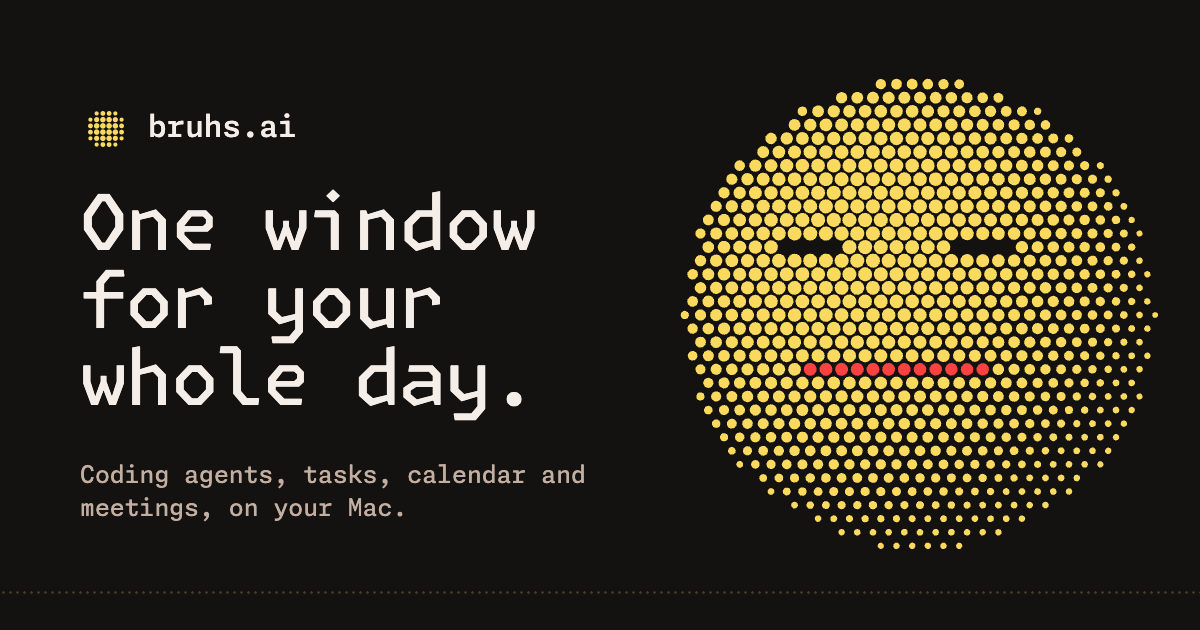
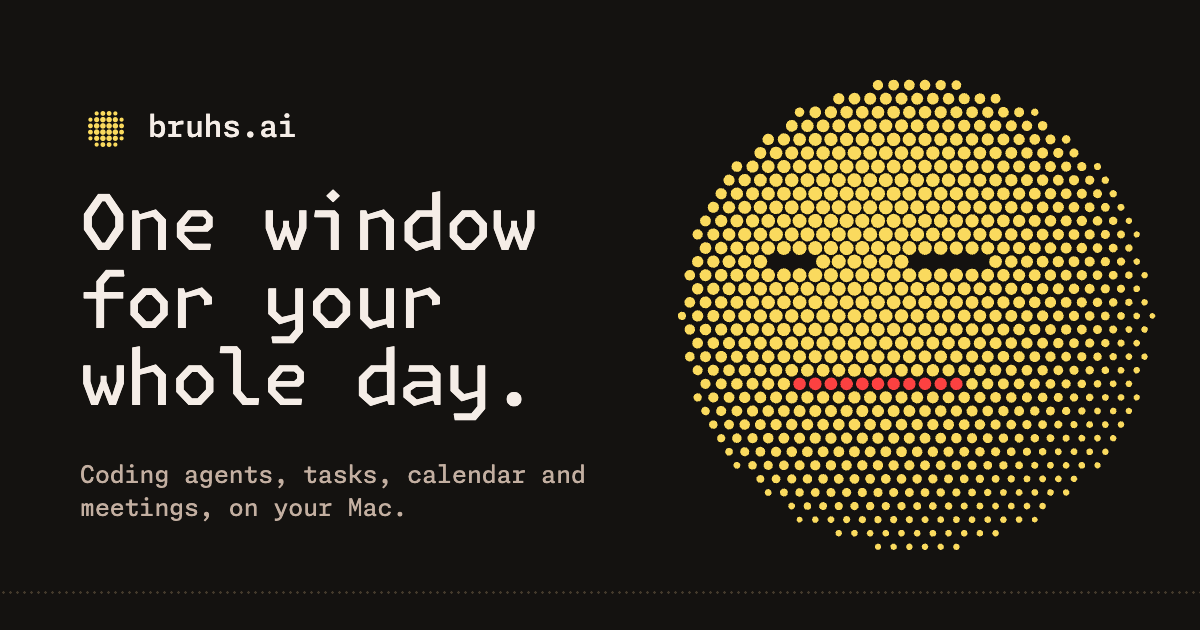
feat(site): the dot Bruh turns its whole head toward the pointer
Looking used to slide the eyes and mouth while the ball stayed put. The
head now rotates in 3D (yaw and pitch): every dot maps back onto the turned
head's surface, so the features ride the sphere, curving and foreshortening
toward the rim under a fixed light, and the ball leans a little toward the
pointer. The turn eases over about 150ms instead of snapping, and stays
still under reduced motion. The social card is redrawn with the new turn.

Assisted-by: Claude:claude-opus-5-5

Changed region(s): [[0.555, 0.1206, 0.9558, 0.8746]]

diff --git a/bruhs-site/src/scripts/braille.js b/bruhs-site/src/scripts/braille.js
@@ -1,10 +1,12 @@
 // The Bruh mascot as a halftone of dots: a hex grid over the face, each dot
 // sized by the light on a sphere (dot area tracks brightness) and shrunk a
 // little toward the rim, so the silhouette stays round and the face reads as
-// a lit ball. The eyes are one-row slits and the mouth is one row of red. Geometry
-// from bruhs.svg; `lookX` turns toward its `left` and `right` variants.
-// The same algorithm lives in @bruhs/theme/dither and bruhs-models
-// logic/dither.rs. No DOM here: tests run it in Node.
+// a lit ball. The eyes are one-row slits and the mouth is one row of red.
+// Looking turns the whole head in 3D: the features ride the sphere's surface,
+// curving and foreshortening toward the rim under a fixed light, and the ball
+// leans a little the way it looks. Geometry from bruhs.svg. The same algorithm
+// lives in @bruhs/theme/dither and bruhs-models logic/dither.rs (static there).
+// No DOM here: tests run it in Node.
 
 /** 4×4 Bayer matrix as thresholds in (0, 1); the screenshot dissolve's order. */
 const BAYER = [0, 8, 2, 10, 12, 4, 14, 6, 3, 11, 1, 9, 15, 7, 13, 5].map((n) => (n + 0.5) / 16);
@@ -34,18 +36,22 @@ const LIGHT = normalize([-0.35, -0.45, 0.82]);
 const AMBIENT = 0.25;
 const RIM = 0.35;
 
-// Mascot geometry in face radii (bruhs.svg: r = 300, center 300,300).
+// Mascot geometry in face radii (bruhs.svg: r = 300, center 300,300). The logo
+// has the eyes 102 and 101 units out; they're mirrored here so the symmetric
+// hex grid cuts identical slits.
 /** @param {number} x @param {number} y */
 const unit = (x, y) => ({ x: (x - 300) / 300, y: (y - 300) / 300 });
-const FACES = {
-  // Eyes mirrored about the center (the logo has them 102 and 101 units out):
-  // the hex grid is symmetric, so mirrored eyes cut identical slits.
-  original: { leftEye: unit(198.5, 223), rightEye: unit(401.5, 223), mouth: unit(307, 378) },
-  left: { leftEye: unit(97, 209), rightEye: unit(300, 209), mouth: unit(191, 364) },
-  right: { leftEye: unit(300, 209), rightEye: unit(503, 209), mouth: unit(409, 364) },
-};
+const LEFT_EYE = unit(198.5, 223);
+const RIGHT_EYE = unit(401.5, 223);
+const MOUTH_AT = unit(307, 378);
 const EYE_RX = 40 / 300;
 const MOUTH_RX = 120 / 300;
+
+// A full look (lookX or lookY of ±1) turns the head this far, in radians,
+// and shifts the ball this share of its radius.
+const MAX_YAW = 0.75;
+const MAX_PITCH = 0.45;
+const LEAN = 0.04;
 
 export const FACE = 1;
 export const MOUTH = 2;
@@ -55,8 +61,8 @@ export const MOUTH = 2;
  * @property {number} cx      Center, in canvas pixels.
  * @property {number} cy
  * @property {number} r       Radius, in canvas pixels.
- * @property {number} [lookX] -1 turns fully to the logo's `left` variant, 1 to `right`.
- * @property {number} [lookY] -1 (up) to 1 (down), a small nudge.
+ * @property {number} [lookX] -1 turns the head fully left, 1 fully right.
+ * @property {number} [lookY] -1 tilts it up, 1 down.
  */
 
 /**
@@ -93,28 +99,41 @@ export function shade(dx, dy) {
 
 /**
  * Every dot of a Bruh in a `width` × `height` box. The hex grid is anchored on
- * the face's center, so the face is symmetric wherever it sits.
+ * the ball's center, so a face looking straight ahead is exactly symmetric.
  * @param {number} width
  * @param {number} height
  * @param {Face} face
  * @returns {Dot[]}
  */
 export function bruhDots(width, height, face) {
-  const { cx, cy, r } = face;
+  const { r } = face;
+  const lookX = Math.max(-1, Math.min(1, face.lookX ?? 0));
+  const lookY = Math.max(-1, Math.min(1, face.lookY ?? 0));
+  const cx = face.cx + lookX * LEAN * r;
+  const cy = face.cy + lookY * LEAN * r;
   const pitch = pitchFor(r);
   const rowH = (pitch * Math.sqrt(3)) / 2;
-  const look = Math.max(-1, Math.min(1, face.lookX ?? 0));
-  const nudge = Math.max(-1, Math.min(1, face.lookY ?? 0)) * 0.05;
-  const turned = look < 0 ? FACES.left : FACES.right;
-  const t = Math.abs(look);
-  /** @param {{ x: number, y: number }} a @param {{ x: number, y: number }} b */
-  const toward = (a, b) => ({ x: a.x + (b.x - a.x) * t, y: a.y + (b.y - a.y) * t + nudge });
-  const eyes = [toward(FACES.original.leftEye, turned.leftEye), toward(FACES.original.rightEye, turned.rightEye)];
-  const mouth = toward(FACES.original.mouth, turned.mouth);
-  // Eyes and mouth are exactly one row each: the row nearest their line. An
-  // oval hole cut across staggered rows comes out ▽ on one eye and △ on the other.
-  const eyeRows = eyes.map((e) => Math.round((e.y * r) / rowH));
-  const mouthRow = Math.round((mouth.y * r) / rowH);
+  const head = rotation(lookX * MAX_YAW, lookY * MAX_PITCH);
+
+  // Where each feature lands once the head turns. Eyes and mouth are exactly
+  // one row each, the row nearest where they land: an oval hole cut across
+  // staggered rows comes out ▽ on one eye and △ on the other.
+  /** @param {{ x: number, y: number }} at */
+  const land = (at) => {
+    const seen = head.toScreen(lift(at));
+    return { at, row: Math.round((seen.y * r) / rowH), visible: seen.z > 0.15 };
+  };
+  const leftEye = land(LEFT_EYE);
+  const rightEye = land(RIGHT_EYE);
+  const mouth = land(MOUTH_AT);
+  /**
+   * @param {{ at: { x: number, y: number }, row: number, visible: boolean }} feature
+   * @param {number} row
+   * @param {{ x: number, y: number }} local
+   * @param {number} rx
+   */
+  const on = (feature, row, local, rx) =>
+    feature.visible && row === feature.row && Math.abs(local.x - feature.at.x) <= rx && Math.abs(local.y - feature.at.y) < 0.2;
 
   /** @type {Dot[]} */
   const dots = [];
@@ -125,16 +144,18 @@ export function bruhDots(width, height, face) {
     if (y < -pitch || y > height + pitch) continue;
     for (let col = -cols; col <= cols; col++) {
       // Offsets in whole half-steps, so a dot and its mirror twin get exactly
-      // negated positions and the face stays symmetric.
+      // negated positions and a front-facing face stays symmetric.
       const halfSteps = 2 * col + (row & 1);
       const x = cx + (halfSteps * pitch) / 2;
       if (x < -pitch || x > width + pitch) continue;
       const dx = (halfSteps * pitch) / (2 * r);
-      const dy = (y - cy) / r;
+      const dy = (row * rowH) / r;
       let value = shade(dx, dy);
       if (value === null) continue;
-      if (eyes.some((e, i) => row === eyeRows[i] && Math.abs((dx - e.x) / EYE_RX) <= 1)) continue;
-      const isMouth = row === mouthRow && Math.abs((dx - mouth.x) / MOUTH_RX) <= 1;
+      // The point of the head's own (unturned) surface now under this dot.
+      const local = head.toLocal(dx, dy, Math.sqrt(Math.max(0, 1 - dx * dx - dy * dy)));
+      if (on(leftEye, row, local, EYE_RX) || on(rightEye, row, local, EYE_RX)) continue;
+      const isMouth = on(mouth, row, local, MOUTH_RX);
       if (isMouth) value = Math.max(value, 0.75);
       const radius = (pitch / 2) * 0.92 * Math.sqrt(value);
       if (radius < pitch * 0.07) continue;
@@ -167,6 +188,41 @@ export function drawBruh(ctx, width, height, face, style) {
   ctx.fill(paths[FACE]);
   ctx.fillStyle = style.colors.mouth;
   ctx.fill(paths[MOUTH]);
+}
+
+/**
+ * A point of the front-facing face, in face radii, lifted onto the sphere.
+ * @param {{ x: number, y: number }} p
+ */
+function lift(p) {
+  return { x: p.x, y: p.y, z: Math.sqrt(Math.max(0, 1 - p.x * p.x - p.y * p.y)) };
+}
+
+/**
+ * The head's turn: a tilt (pitch, positive looks down) then a turn (yaw,
+ * positive looks right), on screen axes with y down and z toward the viewer.
+ * @param {number} yaw
+ * @param {number} pitch
+ */
+function rotation(yaw, pitch) {
+  const cosY = Math.cos(yaw);
+  const sinY = Math.sin(yaw);
+  const cosP = Math.cos(pitch);
+  const sinP = Math.sin(pitch);
+  return {
+    /** @param {{ x: number, y: number, z: number }} p */
+    toScreen(p) {
+      const y = p.y * cosP + p.z * sinP;
+      const z = -p.y * sinP + p.z * cosP;
+      return { x: p.x * cosY + z * sinY, y, z: -p.x * sinY + z * cosY };
+    },
+    /** @param {number} x @param {number} y @param {number} z */
+    toLocal(x, y, z) {
+      const lx = x * cosY - z * sinY;
+      const lz = x * sinY + z * cosY;
+      return { x: lx, y: y * cosP - lz * sinP, z: y * sinP + lz * cosP };
+    },
+  };
 }
 
 /** @param {[number, number, number]} v @returns {[number, number, number]} */

diff --git a/bruhs-site/src/scripts/site.js b/bruhs-site/src/scripts/site.js
@@ -411,11 +411,14 @@ document.addEventListener("keydown", (event) => {
 // ---------------------------------------------------------------------------
 // Dot Bruh: the mascot as a halftone sphere of dots. The hero one resolves
 // out of noise once; the closing one peeks up from the bottom edge. Both turn
-// toward the pointer. Redraws happen only on resize, pointer moves and the reveal.
+// their head toward the pointer, easing there over a few frames. Redraws happen
+// only on resize, the reveal and while a head is still turning.
 
 const BRUH_COLORS = { face: "#fada5e", mouth: "#fc4141" };
-// How far the face turns at the pointer's farthest reach (1 = the logo's side variant).
-const LOOK_REACH = 0.6;
+// How far the head turns at the pointer's farthest reach (1 = its full turn).
+const LOOK_REACH = 0.7;
+// Share of the remaining turn covered each frame: about 150ms to settle at 60fps.
+const LOOK_EASE = 0.22;
 const REVEAL_MS = 700;
 
 /**
@@ -426,6 +429,7 @@ const REVEAL_MS = 700;
  * @property {number} width
  * @property {number} height
  * @property {import("./braille.js").Face} face
+ * @property {{ x: number, y: number }} target  Where the pointer asks the head to look.
  * @property {number} reveal
  * @property {boolean} visible
  */
@@ -442,6 +446,7 @@ for (const canvas of document.querySelectorAll("canvas[data-bruh]")) {
     width: 0,
     height: 0,
     face: { cx: 0, cy: 0, r: 1, lookX: 0, lookY: 0 },
+    target: { x: 0, y: 0 },
     reveal: reducedMotion.matches ? 1 : 0,
     visible: false,
   });
@@ -467,15 +472,6 @@ function layoutBruh(bruh) {
 function drawOne(bruh) {
   if (bruh.width === 0) return;
   drawBruh(bruh.ctx, bruh.width, bruh.height, bruh.face, { reveal: bruh.reveal, colors: BRUH_COLORS });
-}
-
-let bruhFrame = 0;
-function scheduleBruhs() {
-  if (bruhFrame) return;
-  bruhFrame = requestAnimationFrame(() => {
-    bruhFrame = 0;
-    for (const bruh of bruhs) if (bruh.visible) drawOne(bruh);
-  });
 }
 
 /** @param {Bruh} bruh */
@@ -516,15 +512,33 @@ for (const bruh of bruhs) {
   bruhResized.observe(bruh.canvas);
 }
 
+let lookFrame = 0;
+function turnHeads() {
+  lookFrame = 0;
+  let turning = false;
+  for (const bruh of bruhs) {
+    if (!bruh.visible) continue;
+    const dx = bruh.target.x - (bruh.face.lookX ?? 0);
+    const dy = bruh.target.y - (bruh.face.lookY ?? 0);
+    if (Math.abs(dx) < 0.002 && Math.abs(dy) < 0.002) continue;
+    bruh.face.lookX = (bruh.face.lookX ?? 0) + dx * LOOK_EASE;
+    bruh.face.lookY = (bruh.face.lookY ?? 0) + dy * LOOK_EASE;
+    drawOne(bruh);
+    turning = true;
+  }
+  if (turning) lookFrame = requestAnimationFrame(turnHeads);
+}
+
 document.addEventListener("pointermove", (event) => {
-  if (event.pointerType !== "mouse") return;
+  // A still face under reduced motion; touch has no hover to follow.
+  if (event.pointerType !== "mouse" || reducedMotion.matches) return;
   for (const bruh of bruhs) {
     if (!bruh.visible) continue;
     const rect = bruh.canvas.getBoundingClientRect();
     const dx = event.clientX - (rect.left + bruh.face.cx);
     const dy = event.clientY - (rect.top + bruh.face.cy);
-    bruh.face.lookX = Math.max(-1, Math.min(1, dx / 480)) * LOOK_REACH;
-    bruh.face.lookY = Math.max(-1, Math.min(1, dy / 360));
+    bruh.target.x = Math.max(-1, Math.min(1, dx / 480)) * LOOK_REACH;
+    bruh.target.y = Math.max(-1, Math.min(1, dy / 360)) * LOOK_REACH;
   }
-  scheduleBruhs();
+  lookFrame ||= requestAnimationFrame(turnHeads);
 }, { passive: true });

diff --git a/bruhs-site/test/braille.test.ts b/bruhs-site/test/braille.test.ts
@@ -67,12 +67,29 @@ describe("bruhDots", () => {
     assert.ok(dots.filter((d) => d.kind === FACE).length > 500);
   });
 
-  it("turns the features toward the pointer", () => {
+  it("turns the whole head: features ride the sphere and the ball leans", () => {
     const mouthX = (lookX: number) => {
       const row = bruhDots(400, 400, { ...face, lookX }).filter((d) => d.kind === MOUTH);
       return row.reduce((sum, d) => sum + d.x, 0) / row.length;
     };
-    assert.ok(mouthX(-1) < mouthX(0) - 20);
-    assert.ok(mouthX(1) > mouthX(0) + 20);
+    assert.ok(mouthX(-1) < mouthX(0) - 60);
+    assert.ok(mouthX(1) > mouthX(0) + 60);
+
+    // Turned right, both eye slits stay in one row as two gaps, and the right
+    // one, now nearer the rim, is foreshortened: narrower than the left.
+    const turned = bruhDots(400, 400, { ...face, lookX: 0.8 });
+    const byRow = new Map<number, number[]>();
+    for (const d of turned) byRow.set(d.row, [...(byRow.get(d.row) ?? []), d.x]);
+    const gapsIn = (xs: number[]) => {
+      const sorted = [...xs].sort((a, b) => a - b);
+      return sorted.slice(1).map((x, i) => x - (sorted[i] ?? x)).filter((gap) => gap > 1.5 * pitchFor(150));
+    };
+    const eyeRow = [...byRow.values()].map(gapsIn).find((gaps) => gaps.length === 2);
+    assert.ok(eyeRow, "a row with both eye slits");
+    assert.ok((eyeRow[1] ?? 0) < (eyeRow[0] ?? 0), `right slit ${eyeRow[1]} vs left ${eyeRow[0]}`);
+
+    // The ball itself moves toward the look.
+    const centroid = (list: { x: number }[]) => list.reduce((sum, d) => sum + d.x, 0) / list.length;
+    assert.ok(centroid(turned) > centroid(dots) + 3);
   });
 });
